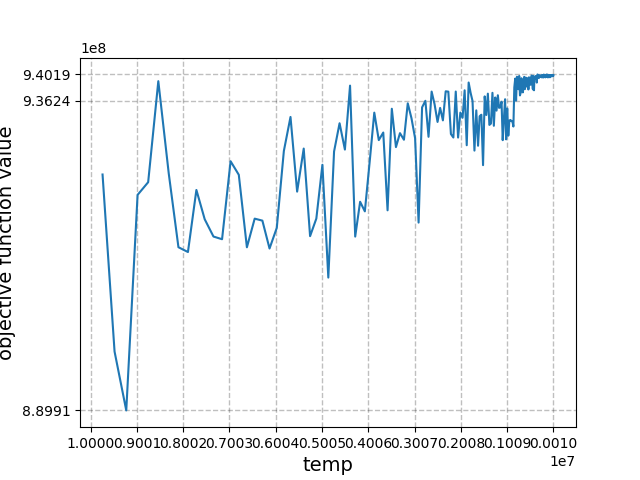
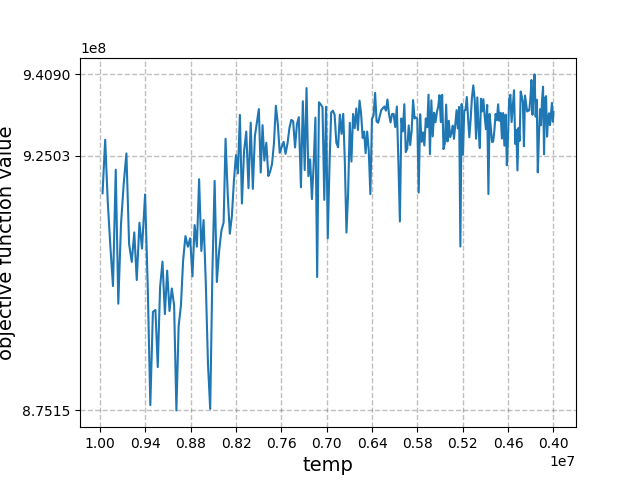
初期解に小細工をした ahc001/submissions/20925462

diff --git a/src/bin/a.rs b/src/bin/a.rs
@@ -82,7 +82,14 @@ fn solve(input: &Input, out: &mut Vec<Rect>) {
                     _ => (),
                 };
             }
-            let p = if input.n > 100 { 2 } else { 1 };
+            // 小細工パート nが大きいときは自由度を与えるイメージ
+            let p = if input.n > 175 {
+                3
+            } else if input.n > 100 {
+                2
+            } else {
+                1
+            };
             match d {
                 0 => out[i].x1 -= ex_len / p,
                 1 => out[i].y1 -= ex_len / p,

diff --git a/graph.py b/graph.py
@@ -17,7 +17,7 @@ ax.plot(temp, val)
 # ax.invert_xaxis()
 ax.set_xlabel("temp", size=14, weight="light")
 ax.set_ylabel("objective function value", size=14, weight="light")
-ax.set_xticks([10000000 - 999000*x for x in range(11)])
+ax.set_xticks([10000000 - 600000*x for x in range(11)])
 ax.set_yticks([max(val), sum(val) / len(val), min(val)])
 ax.invert_xaxis()
 ax.grid(which="major", axis="x", color="black", alpha=0.25,

diff --git a/README.md b/README.md
@@ -16,3 +16,6 @@ https://atcoder.jp/contests/ahc001
 * 高速化は変形長方形を選ぶところと、スコアの差分計算で可能そう
 * 近傍改善。縮小だけするのは微妙だった。
 * グラフにして目的関数値の移動を可視化してみる。
+
+* nによって温度を変える
+* r_iに面積の近い長方形でも、空きスペースを見て変形をする
